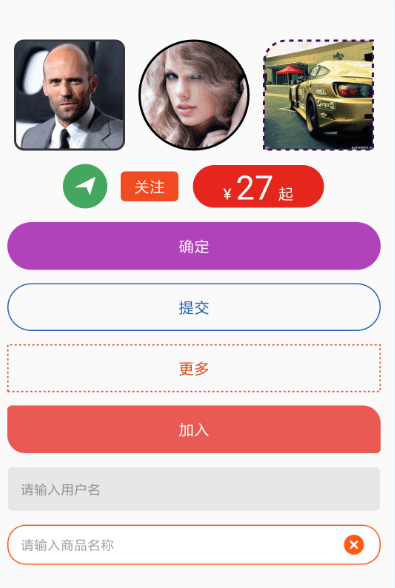
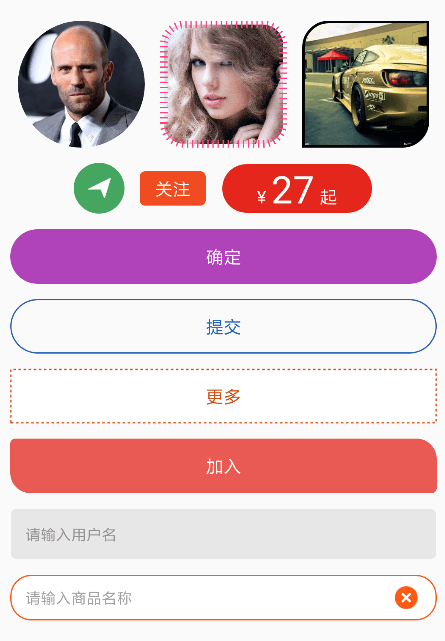
perfect readme.md

Changed region(s): [[0.0, 0.0306, 1.0, 0.7653], [0.0, 0.8878, 1.0, 0.9796], [0.0608, 0.8265, 0.2734, 0.8571]]

diff --git a/supershapeview/src/main/java/com/kingja/supershapeview/core/SuperManager.java b/supershapeview/src/main/java/com/kingja/supershapeview/core/SuperManager.java
@@ -5,14 +5,13 @@ import android.graphics.Canvas;
 import android.os.Parcel;
 import android.os.Parcelable;
 import android.util.AttributeSet;
-import android.util.Log;
 import android.util.TypedValue;
 import android.view.View;
 
-import com.kingja.supershapeview.shape.CommonShape;
-import com.kingja.supershapeview.shape.ImageShape;
 import com.kingja.supershapeview.R;
+import com.kingja.supershapeview.shape.CommonShape;
 import com.kingja.supershapeview.shape.IBuilder;
+import com.kingja.supershapeview.shape.ImageShape;
 
 /**
  * Description:TODO
@@ -21,7 +20,6 @@ import com.kingja.supershapeview.shape.IBuilder;
  * Email:kingjavip@gmail.com
  */
 public class SuperManager implements ISuperShape {
-    private static final String TAG = "SuperManager";
     private View view;
     private SuperConfig superConfig;
     private IBuilder builder;
@@ -98,7 +96,24 @@ public class SuperManager implements ISuperShape {
     }
 
     @Override
+    public void setDashWidth(float dashWidth) {
+        superConfig.setDashWidth(dp2px(dashWidth));
+        builder.modifyAttr();
+    }
+
+    @Override
+    public void setDashGap(float dashGap) {
+        superConfig.setDashGap(dp2px(dashGap));
+        builder.modifyAttr();
+    }
+
+    @Override
     public void setCorner(int topLeftRadius, int topRightRadius, int bottomRightRadius, int bottomLeftRadius) {
+        if (topLeftRadius != SuperConfig.DEFAULT_CORNER_RADIUS || topRightRadius != SuperConfig.DEFAULT_CORNER_RADIUS
+                || bottomRightRadius != SuperConfig.DEFAULT_CORNER_RADIUS || bottomLeftRadius != SuperConfig
+                .DEFAULT_CORNER_RADIUS) {
+            superConfig.setCornerRadius(0);
+        }
         superConfig.setTopLeftRadius(topLeftRadius);
         superConfig.setTopRightRadius(topRightRadius);
         superConfig.setBottomLeftRadius(bottomLeftRadius);
@@ -109,19 +124,16 @@ public class SuperManager implements ISuperShape {
     private void restore(SuperConfig superConfig) {
         this.superConfig = superConfig;
         setSuperConfig(superConfig);
-//        buildShape(canvas);
     }
 
     public Parcelable onSaveInstanceState(Parcelable superState) {
         SavedState ss = new SavedState(superState);
         ss.superConfig = superConfig;
-        Log.e(TAG, "onSaveInstanceState: " + ss.superConfig.getCornerRadius());
         return ss;
     }
 
     public Parcelable onRestoreInstanceState(Parcelable state) {
         SavedState ss = (SavedState) state;
-        Log.e(TAG, "onRestoreInstanceState: " + ss.superConfig.getCornerRadius());
         restore(ss.superConfig);
         return ss.getSuperState();
     }

diff --git a/app/src/main/java/sample/kingja/supershapeview/MainActivity.java b/app/src/main/java/sample/kingja/supershapeview/MainActivity.java
@@ -5,6 +5,7 @@ import android.os.Bundle;
 import android.view.View;
 
 import com.kingja.supershapeview.core.SuperManager;
+import com.kingja.supershapeview.view.SuperShapeEditText;
 import com.kingja.supershapeview.view.SuperShapeImageView;
 import com.kingja.supershapeview.view.SuperShapeTextView;
 
@@ -18,20 +19,16 @@ public class MainActivity extends AppCompatActivity {
         setContentView(R.layout.activity_main);
     }
 
-    public void changeTvStyle(View view) {
-        SuperShapeTextView superShapeTextView = (SuperShapeTextView) view;
-        SuperManager superManager = superShapeTextView.getSuperManager();
-        superManager.setCorner(new Random().nextInt(20));
-        superManager.setSolidColor(0xff303F9F);
-        superManager.setStrokeColor(getResources().getColor(R.color.colorAccent));
-        superManager.setStrokeWidth(new Random().nextInt(4));
-    }
-
     public void changeIvStyle(View view) {
         SuperShapeImageView superShapeImageView = (SuperShapeImageView) view;
         SuperManager superManager = superShapeImageView.getSuperManager();
-        superManager.setCorner(new Random().nextInt(20));
         superManager.setStrokeColor(getResources().getColor(R.color.colorAccent));
         superManager.setStrokeWidth(new Random().nextInt(6));
+        superManager.setDashGap(new Random().nextInt(6));
+        superManager.setDashWidth(new Random().nextInt(6));
+        superManager.setCorner(new Random().nextInt(10), new Random().nextInt(20), new Random().nextInt(30), new
+                Random().nextInt(50));
+//        superManager.setCorner(new Random().nextInt(20));
     }
+
 }

diff --git a/supershapeview/src/main/java/com/kingja/supershapeview/view/SuperShapeEditText.java b/supershapeview/src/main/java/com/kingja/supershapeview/view/SuperShapeEditText.java
@@ -1,6 +1,7 @@
 package com.kingja.supershapeview.view;
 
 import android.content.Context;
+import android.os.Parcelable;
 import android.support.annotation.Nullable;
 import android.support.v7.widget.AppCompatEditText;
 import android.util.AttributeSet;
@@ -15,6 +16,11 @@ import com.kingja.supershapeview.core.SuperManager;
  */
 public class SuperShapeEditText extends AppCompatEditText {
 
+    private SuperManager superManager;
+
+    public SuperManager getSuperManager() {
+        return superManager;
+    }
     public SuperShapeEditText(Context context) {
         super(context);
     }
@@ -30,8 +36,22 @@ public class SuperShapeEditText extends AppCompatEditText {
     }
 
     private void initSuperShapeView(AttributeSet attrs) {
-        SuperManager  superManager = new SuperManager(attrs,this);
+        superManager = new SuperManager(attrs, this);
         superManager.beSuperView();
+    }
+    @Override
+    protected void onSizeChanged(int w, int h, int oldw, int oldh) {
+        super.onSizeChanged(w, h, oldw, oldh);
         superManager.buildShape(null);
+    }
+
+    @Override
+    public Parcelable onSaveInstanceState() {
+        return superManager.onSaveInstanceState(super.onSaveInstanceState());
+    }
+
+    @Override
+    public void onRestoreInstanceState(Parcelable state) {
+        super.onRestoreInstanceState(superManager.onRestoreInstanceState(state));
     }
 }

diff --git a/supershapeview/src/main/java/com/kingja/supershapeview/view/SuperShapeImageView.java b/supershapeview/src/main/java/com/kingja/supershapeview/view/SuperShapeImageView.java
@@ -18,7 +18,6 @@ import com.kingja.supershapeview.core.SuperManager;
  */
 public class SuperShapeImageView extends AppCompatImageView {
 
-    private static final String TAG = "SuperShapeImageView";
     private SuperManager superManager;
 
     public SuperShapeImageView(Context context) {
@@ -36,7 +35,6 @@ public class SuperShapeImageView extends AppCompatImageView {
     }
 
     private void initSuperShapeView(AttributeSet attrs) {
-        Log.e(TAG, "initSuperShapeView: ");
         superManager = new SuperManager(attrs, this);
         superManager.beSuperImageView();
 
@@ -44,7 +42,6 @@ public class SuperShapeImageView extends AppCompatImageView {
 
     @Override
     protected void onDraw(Canvas canvas) {
-        Log.e(TAG, "onDraw: ");
         superManager.buildShape(canvas);
     }
 

diff --git a/supershapeview/src/main/java/com/kingja/supershapeview/view/SuperShapeLinearLayout.java b/supershapeview/src/main/java/com/kingja/supershapeview/view/SuperShapeLinearLayout.java
@@ -20,6 +20,7 @@ public class SuperShapeLinearLayout extends LinearLayout {
     public SuperManager getSuperManager() {
         return superManager;
     }
+
     public SuperShapeLinearLayout(Context context) {
         super(context);
     }
@@ -33,7 +34,6 @@ public class SuperShapeLinearLayout extends LinearLayout {
         super(context, attrs, defStyleAttr);
         initSuperShapeView(attrs);
     }
-
 
     private void initSuperShapeView(AttributeSet attrs) {
         superManager = new SuperManager(attrs, this);

diff --git a/supershapeview/src/main/java/com/kingja/supershapeview/core/ISuperShape.java b/supershapeview/src/main/java/com/kingja/supershapeview/core/ISuperShape.java
@@ -1,7 +1,5 @@
 package com.kingja.supershapeview.core;
 
-import android.support.annotation.ColorRes;
-
 /**
  * Description:TODO
  * Create Time:2018/3/11 11:54
@@ -17,6 +15,10 @@ public interface ISuperShape {
     public void setStrokeWidth(int strokeWidth);
 
     public void setCorner(float corner);
+
+    public void setDashWidth(float dashWidth);
+
+    public void setDashGap(float dashGap);
 
     public void setCorner(int leftTopCorner, int rightTopCorner, int rightBottomCorner, int leftBottomCorner);
 }

diff --git a/README.md b/README.md
@@ -56,14 +56,17 @@ A smart custom view support shapes for TextView ,EditView ,ImageView and so on,i
     app:super_strokeWidth="1dp"/>
 ```
 
-##### set attrs in java
+##### modify attrs dynamically
 ```java
 SuperShapeTextView superShapeTextView = (SuperShapeTextView) view;
 SuperManager superManager = superShapeTextView.getSuperManager();
-superManager.setCorner(20);//DP
 superManager.setSolidColor(0xff303F9F);
 superManager.setStrokeColor(getResources().getColor(R.color.colorAccent));
+superManager.setCorner(20);//DP
 superManager.setStrokeWidth(2);//DP
+superManager.setDashGap(2);//DP
+superManager.setDashWidth(2);//DP
+superManager.setCorner(10,6,10,6);
 ...
 ```
 
@@ -71,6 +74,7 @@ superManager.setStrokeWidth(2);//DP
 **v1.2.0**
 - add API for setting attrs
 - add ImageView Shape (SuperShapeImageView)
+
 **v1.1.1**
 - Initial release 
 
